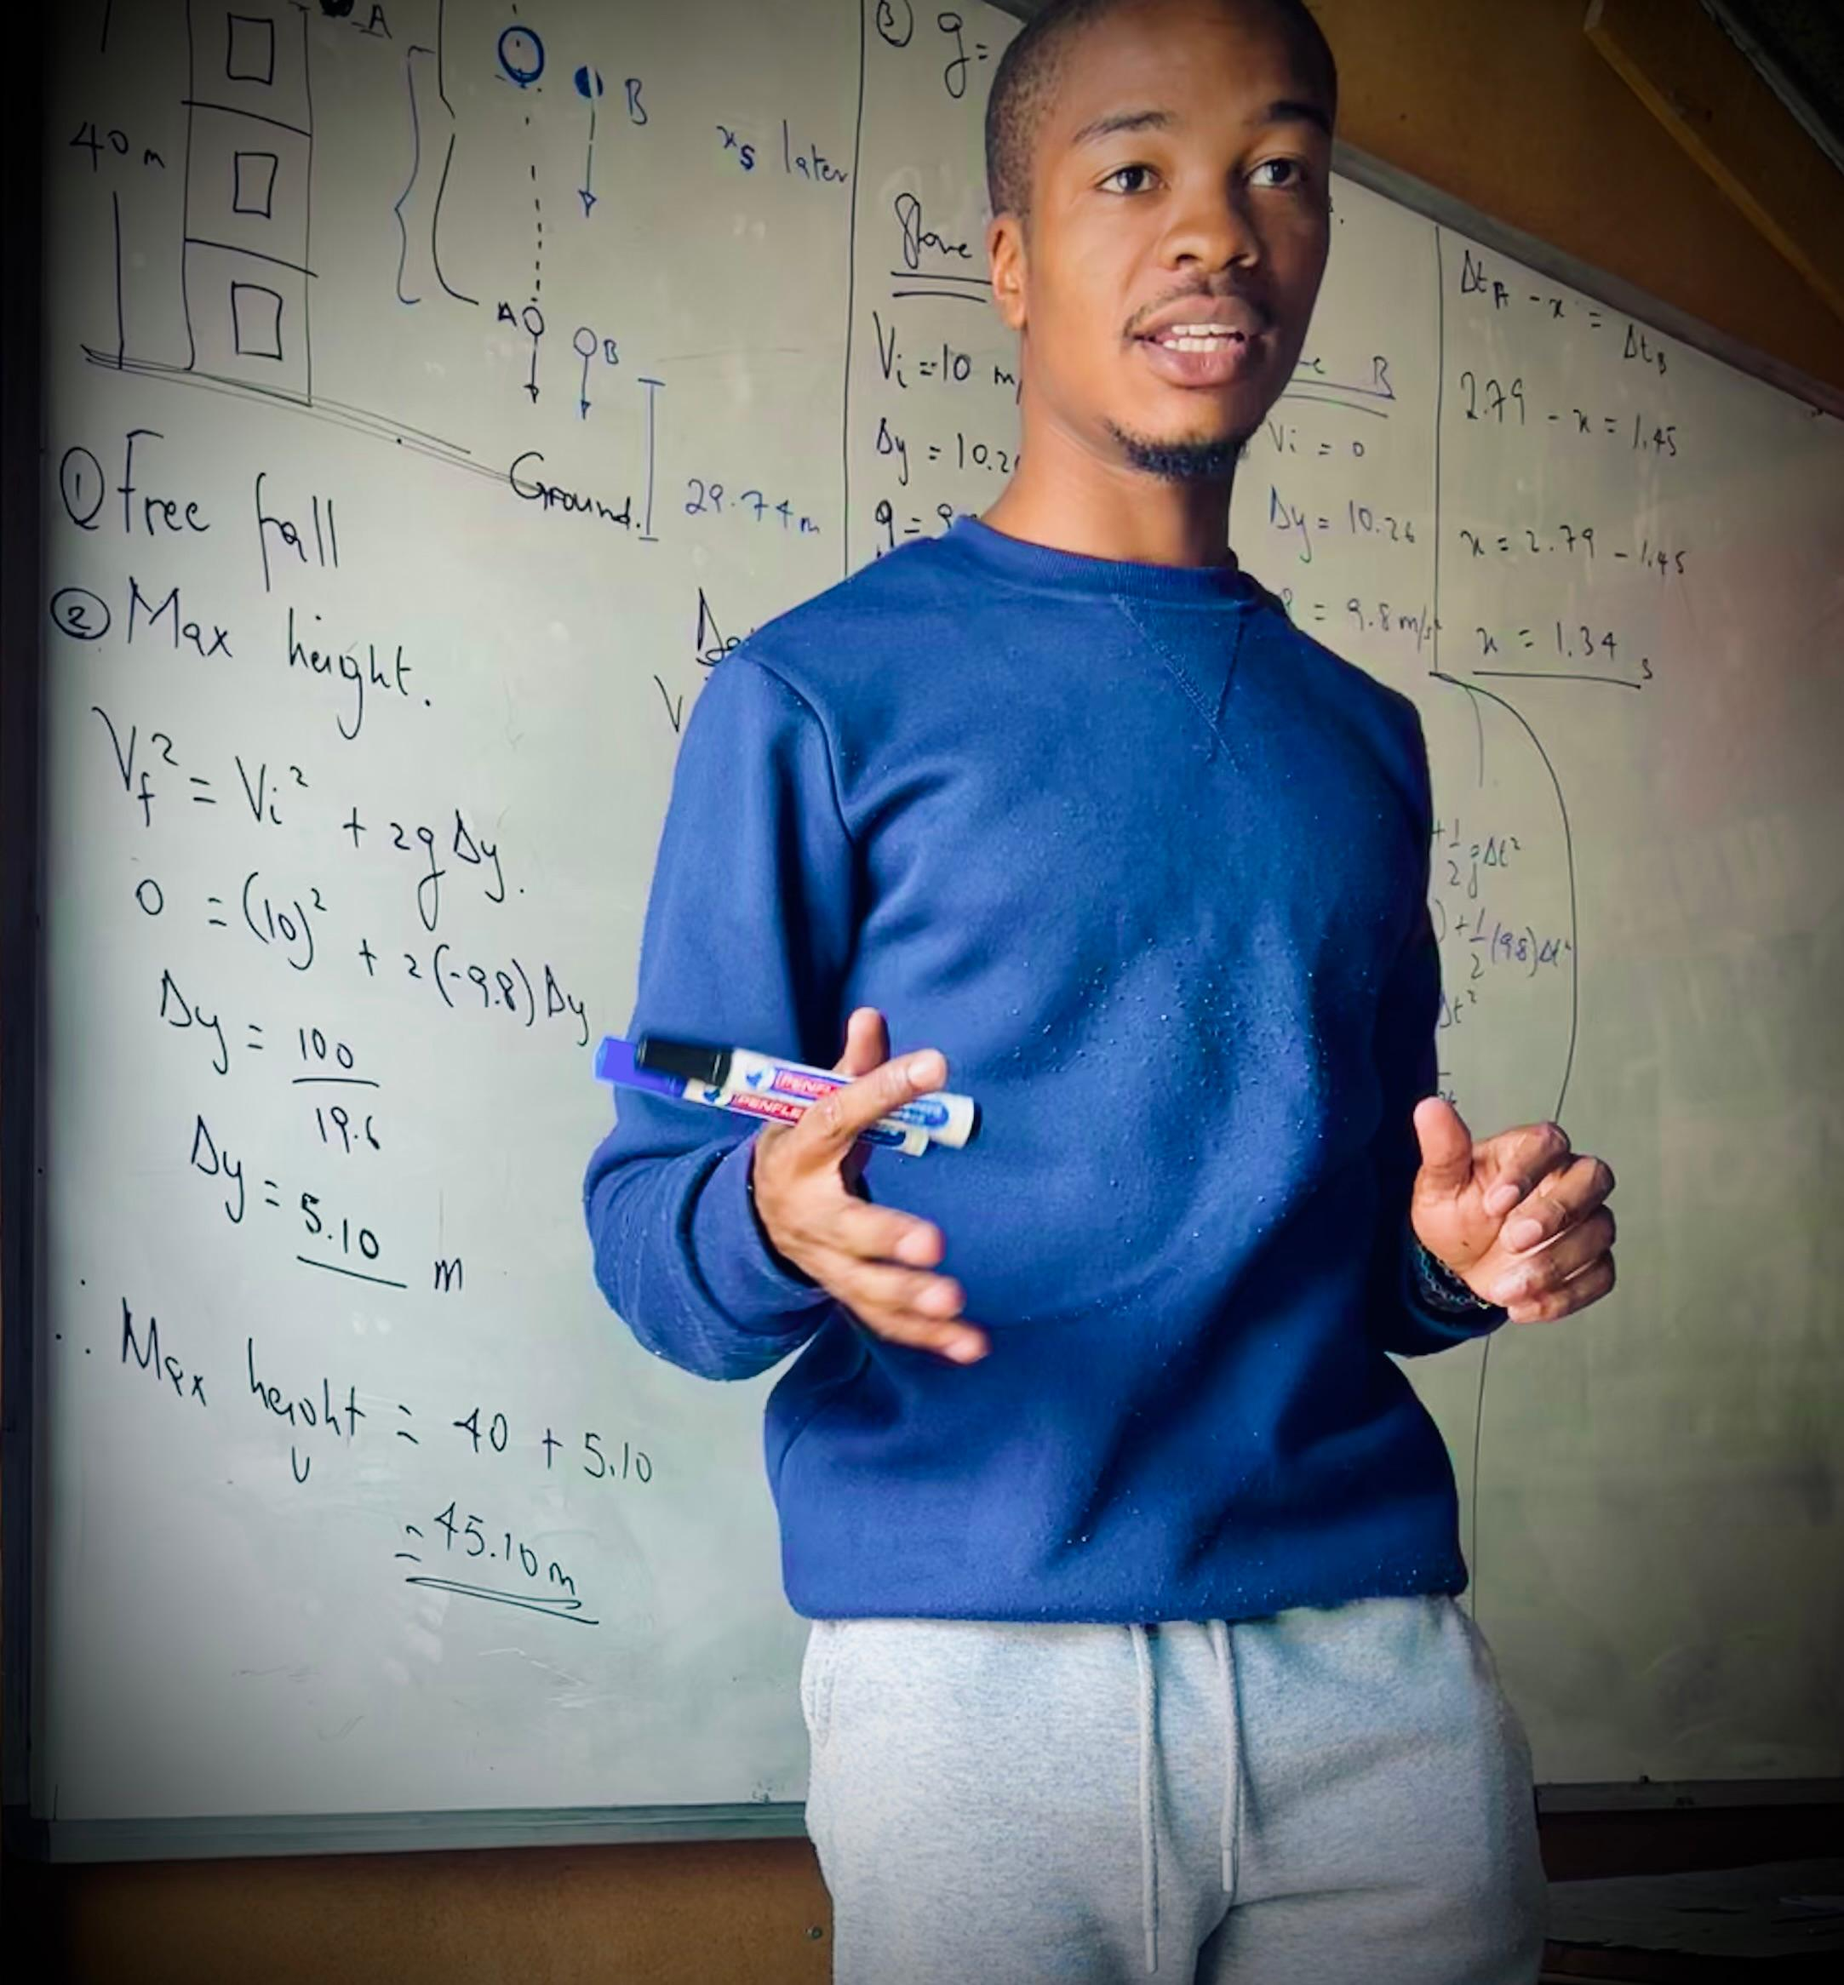
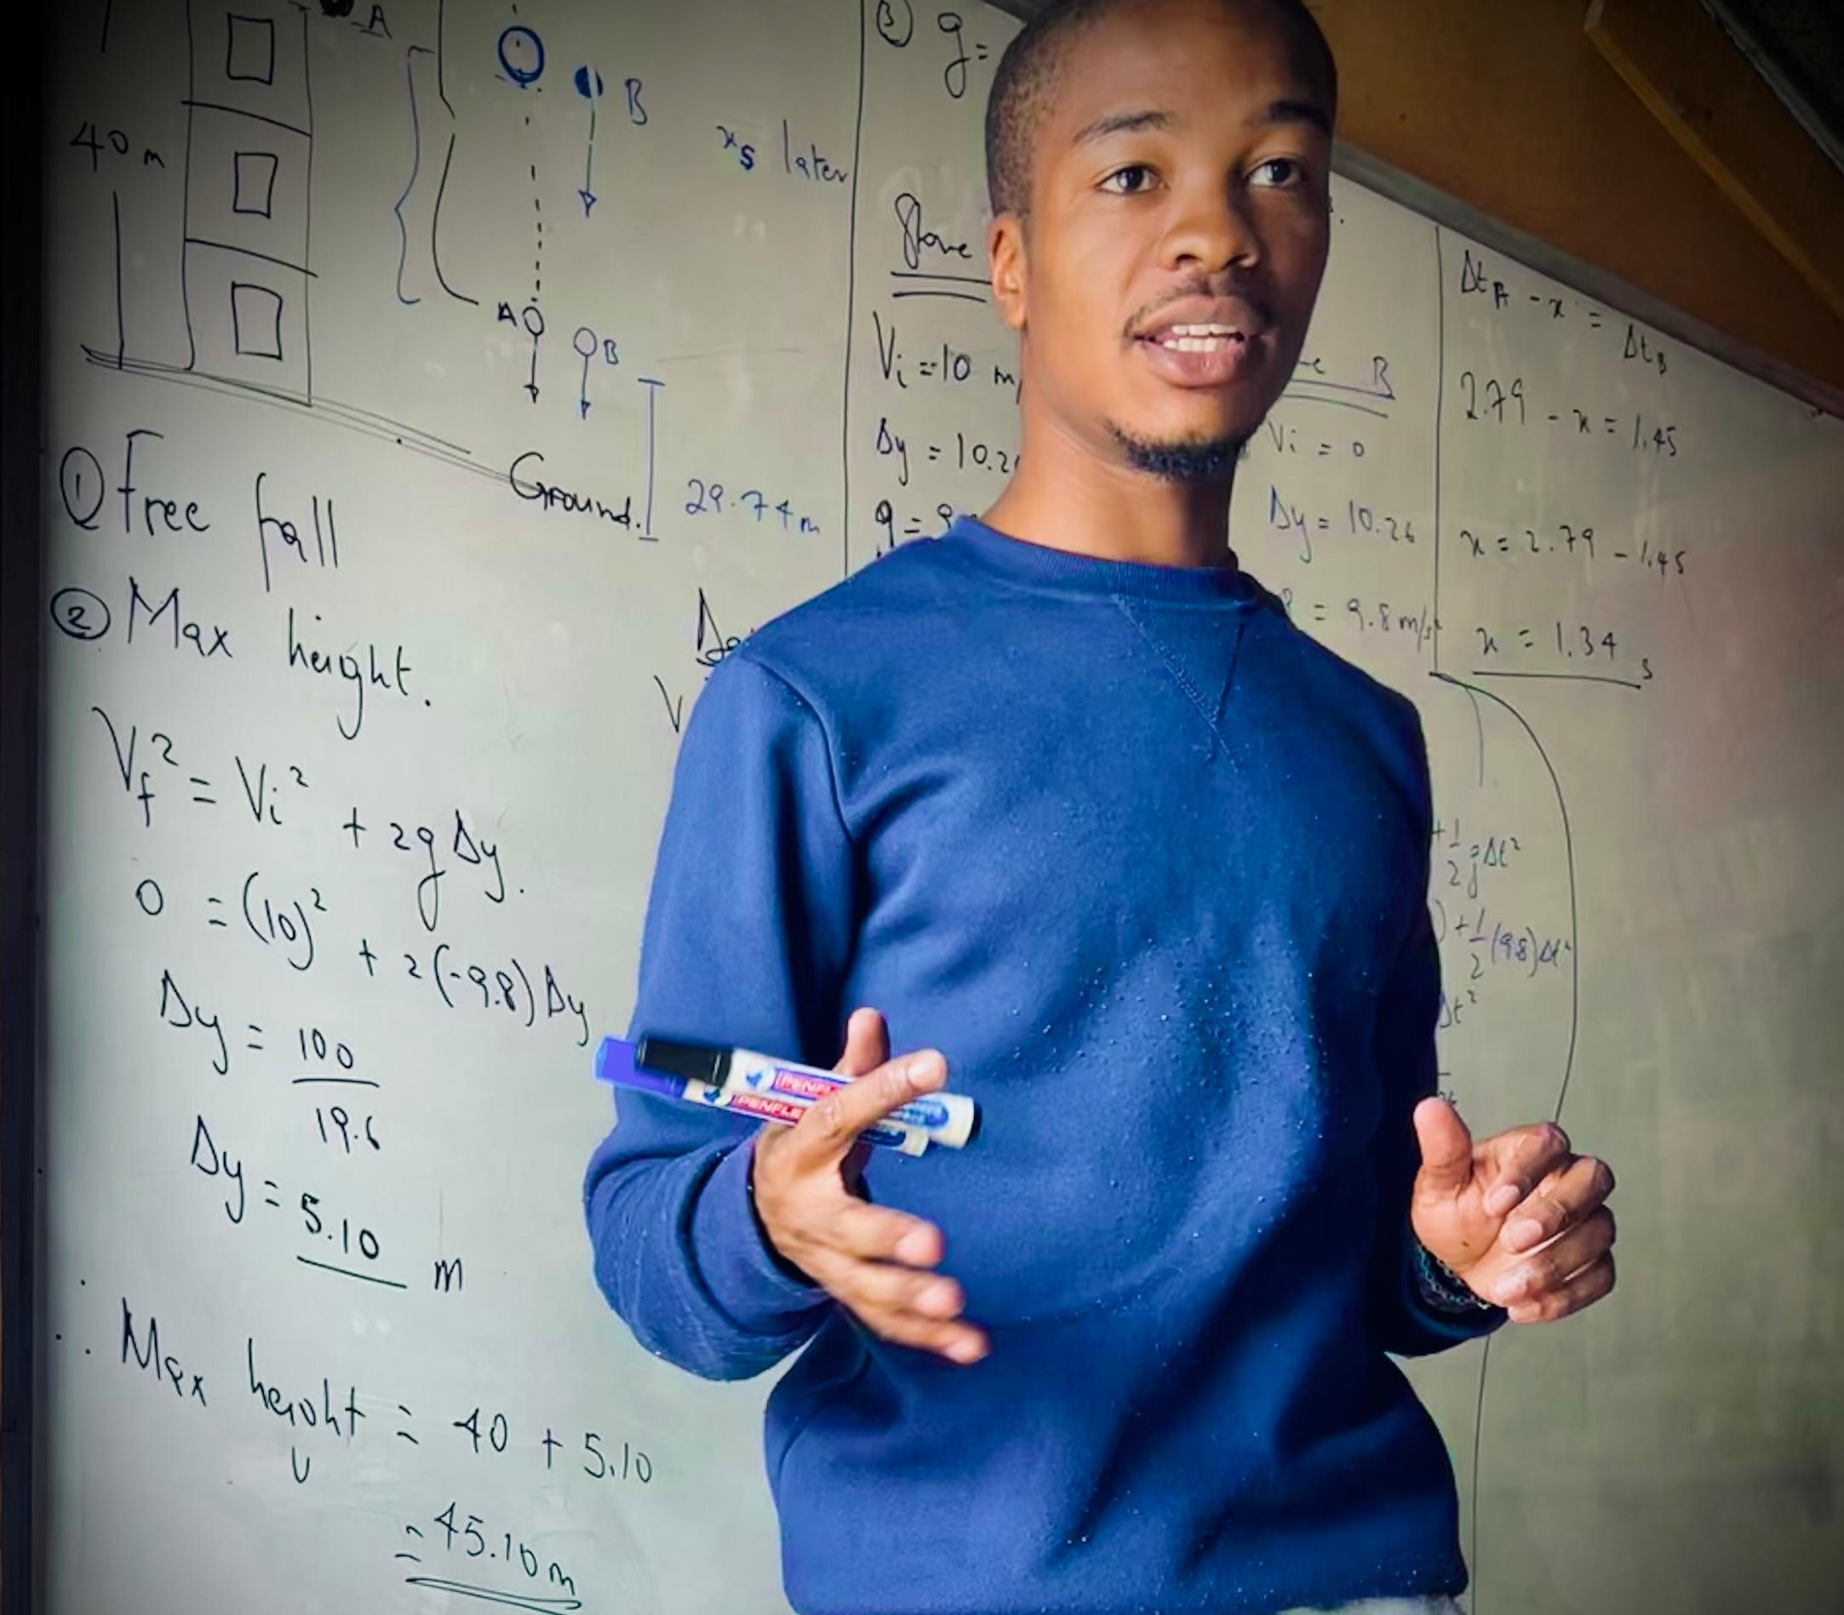
Update homepage image and location metadata

diff --git a/src/pages/Index.tsx b/src/pages/Index.tsx
@@ -595,7 +595,7 @@ export default function Home() {
                 src="/images/tutoring.jpeg"
                 alt="Viva Tutorials tutor teaching a Mathematics lesson at a whiteboard"
                 fetchPriority="high"
-                className="relative aspect-[4/5] w-full rounded-[2rem] object-cover object-center shadow-2xl"
+                className="relative aspect-[4/5] w-full rounded-[2rem] object-center shadow-2xl"
               />
             </motion.div>
           </div>

diff --git a/index.html b/index.html
@@ -32,7 +32,7 @@
         "logo": "https://www.vivatutorials.co.za/viva-tutorials-logo.png",
         "email": "info@vivatutorials.co.za",
         "telephone": "+27 73 391 3206",
-        "areaServed": ["Cape Town, South Africa", "South Africa"],
+        "areaServed": ["Mfuleni, Cape Town, South Africa", "South Africa"],
         "sameAs": [
           "https://web.facebook.com/profile.php?id=61586724797551",
           "https://www.youtube.com/@viva-tutorials",
